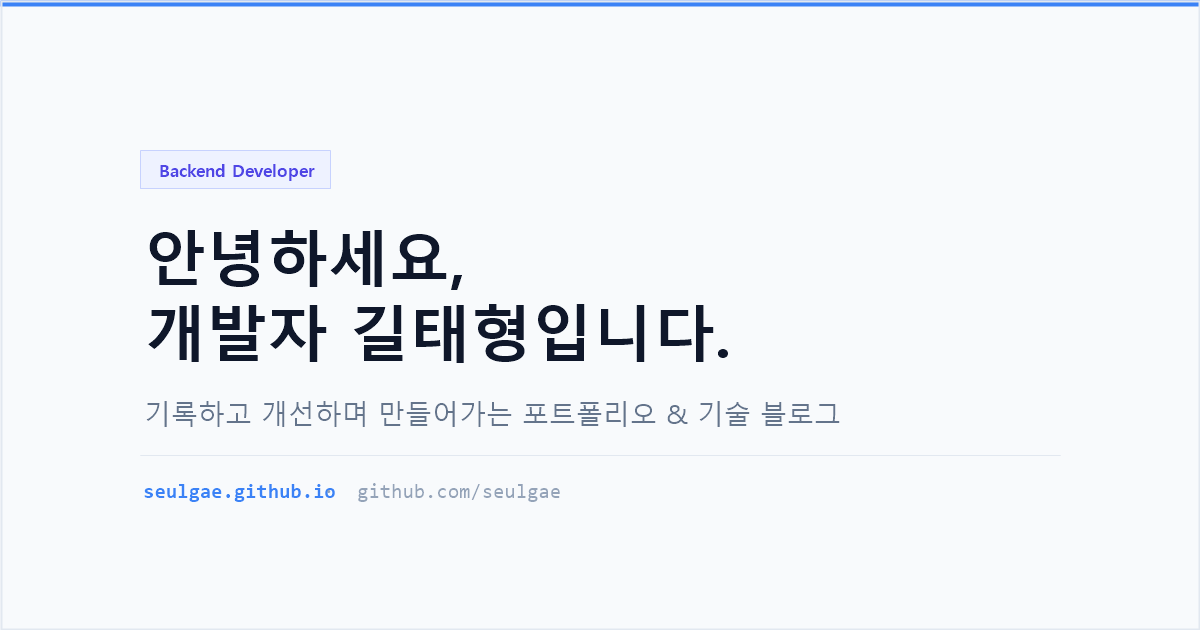
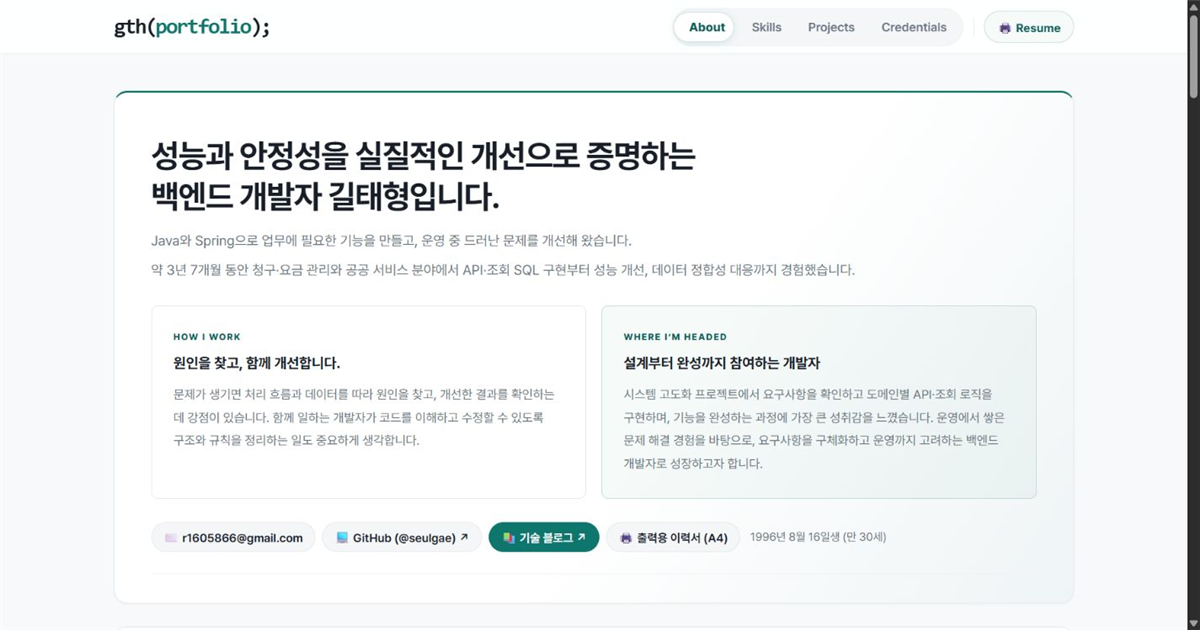
[20261107] 공유 썸네일 현행화 및 GW 담당 역할 문구 수정 - 공유 썸네일을 현재 포트폴리오 첫 화면 캡처로 교체 - OG·Twitter 이미지 주소에 버전 추가 및 크기·대체 텍스트 설정 - GW 오류 대응 설명의 PM 검토 지원을 PL 검토 지원으로 수정 - 공통 데이터를 통해 포트폴리오와 출력용 이력서에 함께 반영

diff --git a/index.html b/index.html
@@ -21,7 +21,11 @@
       content="요구사항을 기능으로 구현하고 운영 경험을 설계·개발에 연결하는 Java/Spring 백엔드 개발자 길태형의 포트폴리오"
     />
     <meta property="og:url" content="https://seulgae.github.io/" />
-    <meta property="og:image" content="https://seulgae.github.io/og-image.png" />
+    <meta property="og:image" content="https://seulgae.github.io/og-image.png?v=20261107" />
+    <meta property="og:image:type" content="image/png" />
+    <meta property="og:image:width" content="1200" />
+    <meta property="og:image:height" content="630" />
+    <meta property="og:image:alt" content="길태형 포트폴리오 첫 화면 — 백엔드 개발자 소개와 업무 방식" />
     <meta property="og:locale" content="ko_KR" />
     <meta name="twitter:card" content="summary_large_image" />
     <meta name="twitter:title" content="길태형 | Backend Developer" />
@@ -29,7 +33,8 @@
       name="twitter:description"
       content="요구사항을 기능으로 구현하고 운영 경험을 설계·개발에 연결하는 Java/Spring 백엔드 개발자 길태형의 포트폴리오"
     />
-    <meta name="twitter:image" content="https://seulgae.github.io/og-image.png" />
+    <meta name="twitter:image" content="https://seulgae.github.io/og-image.png?v=20261107" />
+    <meta name="twitter:image:alt" content="길태형 포트폴리오 첫 화면 — 백엔드 개발자 소개와 업무 방식" />
 
     <!-- Pretendard: 토스·주요 국내 서비스가 쓰는 본문 폰트. 실패 시 시스템 폰트로 대체됩니다. -->
     <link

diff --git a/src/data/projects.js b/src/data/projects.js
@@ -156,7 +156,7 @@ const projects = [
       {
         title: "GW 연동 오류 분석 및 대응 체계 개선",
         detail:
-          "WhaTap 히트맵 기반 실패 패턴 분석, 오류 유형별 대응 시나리오 매뉴얼화 및 데이터 보정 스크립트 정비로 즉시 대응 절차 마련. 파트별 오류를 종합·공유하는 일일 메일 보고 체계 구축으로 운영자 대응·PM 검토 지원",
+          "WhaTap 히트맵 기반 실패 패턴 분석, 오류 유형별 대응 시나리오 매뉴얼화 및 데이터 보정 스크립트 정비로 즉시 대응 절차 마련. 파트별 오류를 종합·공유하는 일일 메일 보고 체계 구축으로 운영자 대응·PL 검토 지원",
         result: "주간 Kafka 연동 오류 약 70건 → 5건",
         relatedPosts: [
           { slug: "kafka-gw-data-integrity", label: "Kafka 도메인 GW 데이터 정합성 지키기" },
